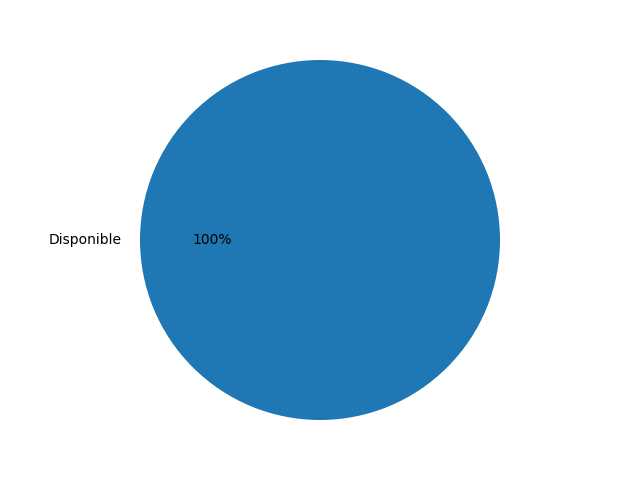
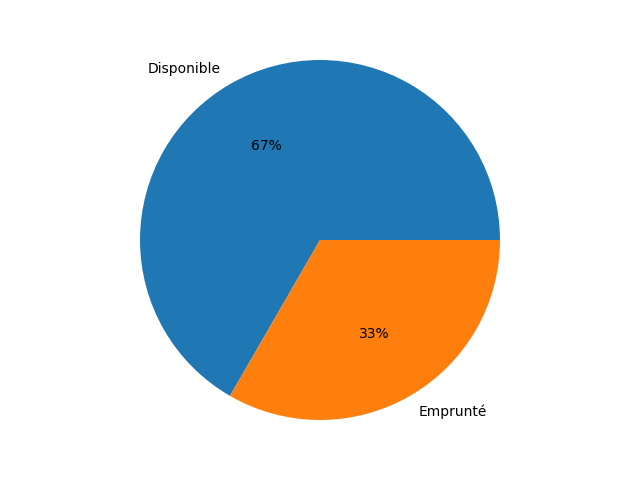
Correctifs Utilisateurs

diff --git a/modules/utilisateur.py b/modules/utilisateur.py
@@ -1,13 +1,14 @@
 from modules.livre import Livre
 import hashlib
 from modules.bibliotheque import Bibliotheque
+import json
 
 class Utilisateur:
-    _id_counter = 1
+    id_counter = 1
 
     def generer_uuid(self):
-        uuid = Utilisateur._id_counter
-        Utilisateur._id_counter += 1
+        uuid = Utilisateur.id_counter
+        Utilisateur.id_counter += 1
         return uuid
 
 class Lecteur(Utilisateur):
@@ -15,59 +16,123 @@ class Lecteur(Utilisateur):
         self.role = 1
         self.nom : str = nom
         self.email : str = email
-        self.password : str = hashlib.sha256(password.encode())
+        self.password : str = password
         self.uuid : int = self.generer_uuid()
 
     def emprunter(self):
-        id_livre = int(input("\nID du livre à emprunter \n -> "))
-        livre = Bibliotheque.trouver_par_id(id_livre)
-        if livre.statut == "disponible":
-            livre.modifier(statut="emprunté")
-            return
-        else:
-            print("Livre indisponible")
+        try:
+            id_livre = int(input("\nID du livre à emprunter \n -> "))
+            livre = Bibliotheque.trouver_par_id(id_livre)
+            if livre.statut.lower() == "disponible":
+                livre.modifier(statut="Emprunté")
+                print(f"Livre {livre.titre} emprunté !")
+                return
+            else:
+                print("Livre indisponible")
+        except Exception as e:
+            print(f"Une erreur s'est produite : {e}")
 
     def rendre(self):
-        id_livre = int(input("\nID du livre à rendre \n -> "))
-        livre = Bibliotheque.trouver_par_id(id_livre)
-        if livre.statut == "disponible":
-            print("Livre déjà rendu")
-            return
-        else:
-            livre.modifier(statut="disponible")
+        try:
+            id_livre = int(input("\nID du livre à rendre \n -> "))
+            livre = Bibliotheque.trouver_par_id(id_livre)
+            if livre.statut.lower() == "disponible":
+                print("Livre déjà rendu")
+                return
+            else:
+                livre.modifier(statut="Disponible")
+                print(f"Livre {livre.titre} rendu avec succès !")
+        except Exception as e:
+            print(f"Une erreur s'est produite : {e}")
 
 class Bibliothecaire(Utilisateur):
     def __init__(self, nom, email, password):
         self.role = 2
         self.nom : str = nom
         self.email : str = email
-        self.password : str = hashlib.sha256(password.encode())
+        self.password : str = password
         self.uuid : int = self.generer_uuid()
 
     def ajouter(self):
-        titre = input(f"\nTitre du livre \n -> ")
-        auteur = input(f"\nAuteur \n ->")
-        categorie = input(f"\nCatégorie \n ->")
-        statut = input(f"\nStatut \n ->")
-        livre = Livre.add(titre, auteur, categorie, statut)
-        print(f"Livre ({livre.titre}, {livre.auteur}, {livre.categorie}, {livre.statut}) ajouté avec succès.")
-    
+        try:
+            titre = input(f"\nTitre du livre \n -> ")
+            auteur = input(f"\nAuteur \n -> ")
+            categorie = input(f"\nCatégorie \n -> ")
+            livre = Bibliotheque.ajouter_livre(titre, auteur, categorie)
+            print(f"Livre {livre.titre} écrit par {livre.auteur} dans la catégorie {livre.categorie} ajouté avec succès.")
+        except Exception as e:
+            print(f"Une erreur s'est produite : {e}")
+
     def modifier(self):
-        id_livre = int(input("\nID du livre à modifier \n -> "))
-        titre = input(f"\nTitre du livre ({Livre.Livre.titre}) (Entrée pour passer) \n -> ") or None
-        auteur = input(f"\nAuteur ({Livre.Livre.auteur}) (Entrée pour passer) \n ->") or None
-        categorie = input(f"\nCatégorie ({Livre.categorie}) (Entrée pour passer) \n ->") or None
-        statut = input(f"\nStatut ({Livre.statut}) (Entrée pour passer) \n ->") or None
-        Livre.modifier(id_livre, titre, auteur, categorie, statut)
-    
+        try:
+            id_livre = int(input("\nID du livre à modifier \n -> "))
+            titre = input(f"\nTitre du livre ({Livre.Livre.titre}) (Entrée pour passer) \n -> ") or None
+            auteur = input(f"\nAuteur ({Livre.Livre.auteur}) (Entrée pour passer) \n ->") or None
+            categorie = input(f"\nCatégorie ({Livre.categorie}) (Entrée pour passer) \n ->") or None
+            statut = input(f"\nStatut ({Livre.statut}) (Entrée pour passer) \n ->") or None
+            Livre.modifier(id_livre, titre, auteur, categorie, statut)
+        except Exception as e:
+            print(f"Une erreur s'est produite : {e}")   
+
     def supprimer(self):
-        id_livre = int(input("\nID du livre à supprimer \n -> "))
-        Livre.supp(id_livre)
+        try:
+            id_livre = int(input("\nID du livre à supprimer \n -> "))
+            Bibliotheque.supprimer_livre(id_livre)
+        except Exception as e:
+            print(f"Une erreur s'est produite : {e}")  
 
 class Admin(Utilisateur):
     def __init__(self, nom, email, password):
         self.role = 99
         self.nom : str = nom
         self.email : str = email
-        self.password : str = hashlib.sha256(password.encode())
+        self.password : str = password
         self.uuid : int = self.generer_uuid()
+
+    def save_users_json(filename, utilisateurs):
+        """Sauvegarde les Utilisateurs (rechargeable)."""
+        try:
+            payload = {
+                "id_counter": Utilisateur.id_counter,
+                "users": [
+                    {
+                        "role": utilisateurs[u].role,
+                        "nom": utilisateurs[u].nom,
+                        "email": utilisateurs[u].email,
+                        "password": utilisateurs[u].password
+                    } for u in utilisateurs]
+            }
+            with open(filename, "w", encoding="utf-8") as f:
+                json.dump(payload, f, ensure_ascii=False, indent=4)
+            print(f"Utilisateurs sauvegardés : {filename}")
+        except Exception as e:
+            print(f"Une erreur s'est produite : {e}")  
+
+    def load_users_json(filename, utilisateurs):
+        """Recharge le CATALOGUE COMPLET (garde les IDs cohérents)."""
+        try:
+            with open(filename, "r", encoding="utf-8") as f:
+                payload = json.load(f)
+        except Exception as e:
+            print(f"Erreur lors de l'ouverture : {e}")
+            return
+
+        for u in payload.get("users", []):
+            nom = u["nom"]
+            email = u["email"]
+            pwd = u["password"]
+            match u["role"]:
+                case 1:
+                    u = Lecteur(nom, email, pwd)
+                    utilisateurs[u.uuid] = u
+                    print(f"Lecteur créé → ID {u.uuid} | {u.nom} <{u.email}> (role=Lecteur)")
+                case 2:
+                    u = Bibliothecaire(nom, email, pwd)
+                    utilisateurs[u.uuid] = u
+                    print(f"Bibliothécaire créé → ID {u.uuid} | {u.nom} <{u.email}> (role=Bibliothecaire)")
+                case 99:
+                    u = Admin(nom, email, pwd)
+                    utilisateurs[u.uuid] = u
+                    print(f"Administrateur créé → ID {u.uuid} | {u.nom} <{u.email}> (role=Admin)")  
+
+        print(f"Utilisateurs chargés depuis : {filename}")

diff --git a/main.py b/main.py
@@ -1,7 +1,8 @@
 # main.py — Menu "Utilisateurs" central + sous-menus par rôles
 from typing import Dict, Union
 import sys
-
+import hashlib
+from getpass import getpass
 
 #==================== Imports principaux =========================
 
@@ -90,24 +91,27 @@ def menu_utilisateurs():
         if ch == "1":
             nom = _input("Nom: ").strip()
             email = _input("Email: ").strip()
-            pwd = _input("Mot de passe: ")
-            u = Lecteur(nom, email, pwd)
+            pwd = getpass("Mot de passe: ")
+            pwd_hash = hashlib.sha256(pwd.encode()).hexdigest()
+            u = Lecteur(nom, email, pwd_hash)
             utilisateurs[u.uuid] = u
             print(f"Lecteur créé → ID {u.uuid} | {u.nom} <{u.email}> (role=Lecteur)")
 
         elif ch == "2":
             nom = _input("Nom: ").strip()
             email = _input("Email: ").strip()
-            pwd = _input("Mot de passe: ")
-            u = Bibliothecaire(nom, email, pwd)
+            pwd = getpass("Mot de passe: ")
+            pwd_hash = hashlib.sha256(pwd.encode()).hexdigest()
+            u = Bibliothecaire(nom, email, pwd_hash)
             utilisateurs[u.uuid] = u
             print(f"Bibliothécaire créé → ID {u.uuid} | {u.nom} <{u.email}> (role=Bibliothécaire)")
 
         elif ch == "3":
             nom = _input("Nom: ").strip()
             email = _input("Email: ").strip()
-            pwd = _input("Mot de passe: ")
-            u = Admin(nom, email, pwd)
+            pwd = getpass("Mot de passe: ")
+            pwd_hash = hashlib.sha256(pwd.encode()).hexdigest()
+            u = Admin(nom, email, pwd_hash)
             utilisateurs[u.uuid] = u
             print(f"Admin créé → ID {u.uuid} | {u.nom} <{u.email}> (role=Admin)")
 
@@ -129,7 +133,15 @@ def menu_utilisateurs():
             if not u:
                 print("Utilisateur introuvable.")
                 continue
-            demarrer_session(u)
+
+            # Saisie du mot de passe
+            password = getpass("Mot de passe : ")
+            password_hash = hashlib.sha256(password.encode()).hexdigest()
+
+            if u.password == password_hash:
+                demarrer_session(u)
+            else:
+                print("Mot de passe incorrect")
 
         elif ch == "6":
             break
@@ -219,11 +231,12 @@ def menu_session_admin(u: Admin):
         print(f"\n=== Session Admin — {u.nom} (ID {u.uuid}) ===")
         print("1. Statistiques / Graphes")
         print("2. Exporter catalogue (CSV)")
-        print("3. Sauvegarder / Charger (JSON)")
-        print("4. Résumé global")
-        print("5. Outils Rechercher / Filtrer / Trier")
-        print("6. Voir le catalogue")
-        print("7. Déconnexion")
+        print("3. Sauvegarder / Charger le catalogue (JSON)")
+        print("4. Sauvegarder / Charger les utilisateurs (JSON)")
+        print("5. Résumé global")
+        print("6. Outils Rechercher / Filtrer / Trier")
+        print("7. Voir le catalogue")
+        print("8. Déconnexion")
         ch = _input("Votre choix: ").strip()
         livres = Bibliotheque.livres
 
@@ -247,15 +260,18 @@ def menu_session_admin(u: Admin):
             _menu_persistance()
 
         elif ch == "4":
-            Bibliotheque.save_resume_json("bibliotheque_resume.json", print_resume=True)
+            _menu_users_persistance()
 
         elif ch == "5":
-            _outils_recherche_tri()
+            Bibliotheque.save_resume_json("bibliotheque_resume.json", print_resume=True)
 
         elif ch == "6":
-            Bibliotheque.historique()
+            _outils_recherche_tri()
 
         elif ch == "7":
+            Bibliotheque.historique()
+
+        elif ch == "8":
             print("Déconnexion.")
             break
         else:
@@ -333,6 +349,24 @@ def _menu_persistance():
         else:
             print("Choix invalide.")
 
+def _menu_users_persistance():
+    while True:
+        print("\n--- Sauvegarder / Charger ---")
+        print("1. Sauvegarder Utilisateurs (JSON)")
+        print("2. Charger Utilisateurs (JSON)")
+        print("3. Retour")
+        ch = _input("Votre choix: ").strip()
+        if ch == "1":
+            fn = _input("Nom fichier (défaut: bibliotheque_utilisateurs.json): ").strip() or "bibliotheque_utilisateurs.json"
+            Admin.save_users_json(fn, utilisateurs)
+        elif ch == "2":
+            fn = _input("Nom fichier (défaut: bibliotheque_utilisateurs.json): ").strip() or "bibliotheque_utilisateurs.json"
+            Admin.load_users_json(fn, utilisateurs)
+        elif ch == "3":
+            break
+        else:
+            print("Choix invalide.")
+
 
 # ======================= FallBacks =======================
 def _afficher_res(livres):
@@ -384,5 +418,14 @@ def _fallback_export_csv(livres, out_csv):
 
 # ======================= Entrée =======================
 if __name__ == "__main__":
+
+    # Création de l'utilisateur admin (ID: 1, password: admin)
+    nom = "Administrateur"
+    email = "admin@projet2.py"
[1 lines of base64/hex data omitted]
+    u = Admin(nom, email, pwd)
+    utilisateurs[u.uuid] = u
+
+    # Lancement du menu principal
     menu_principal()
 
